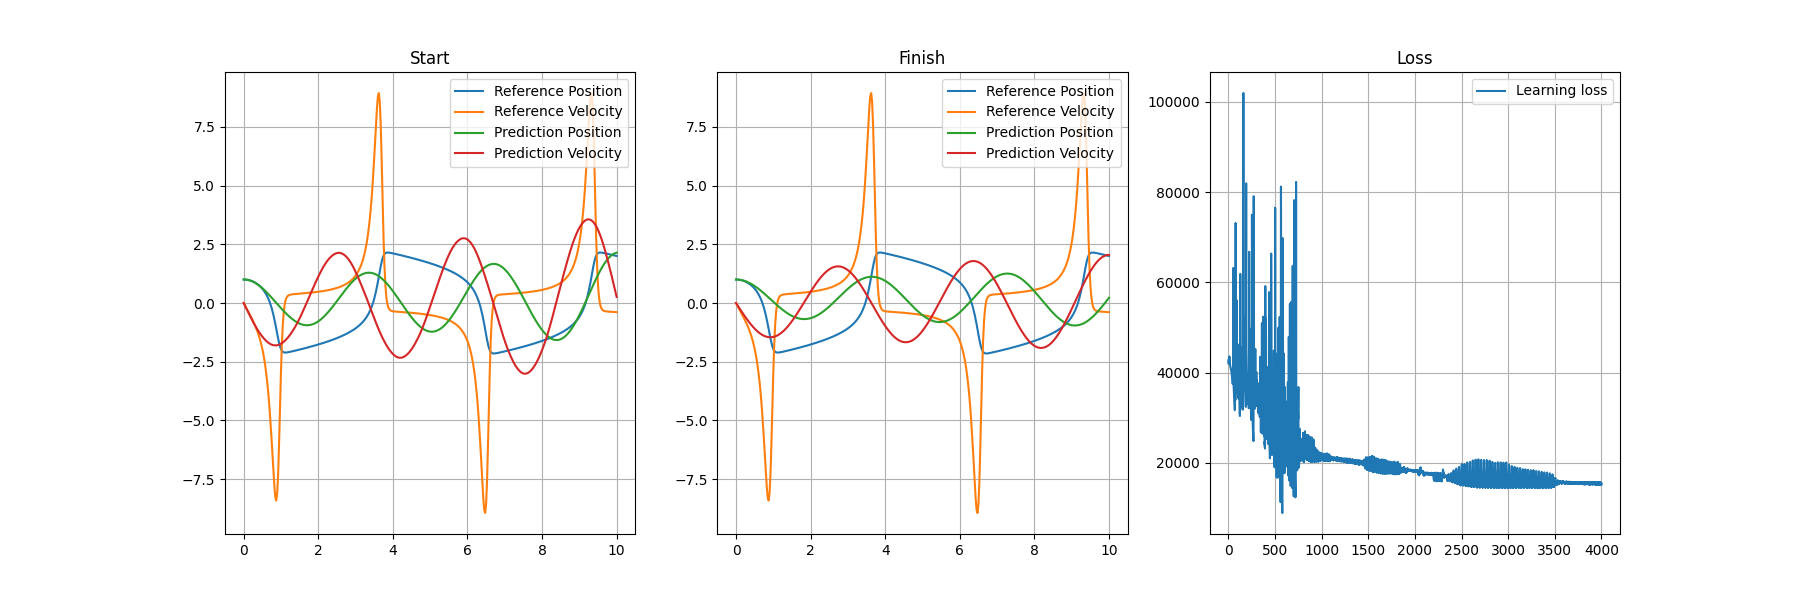
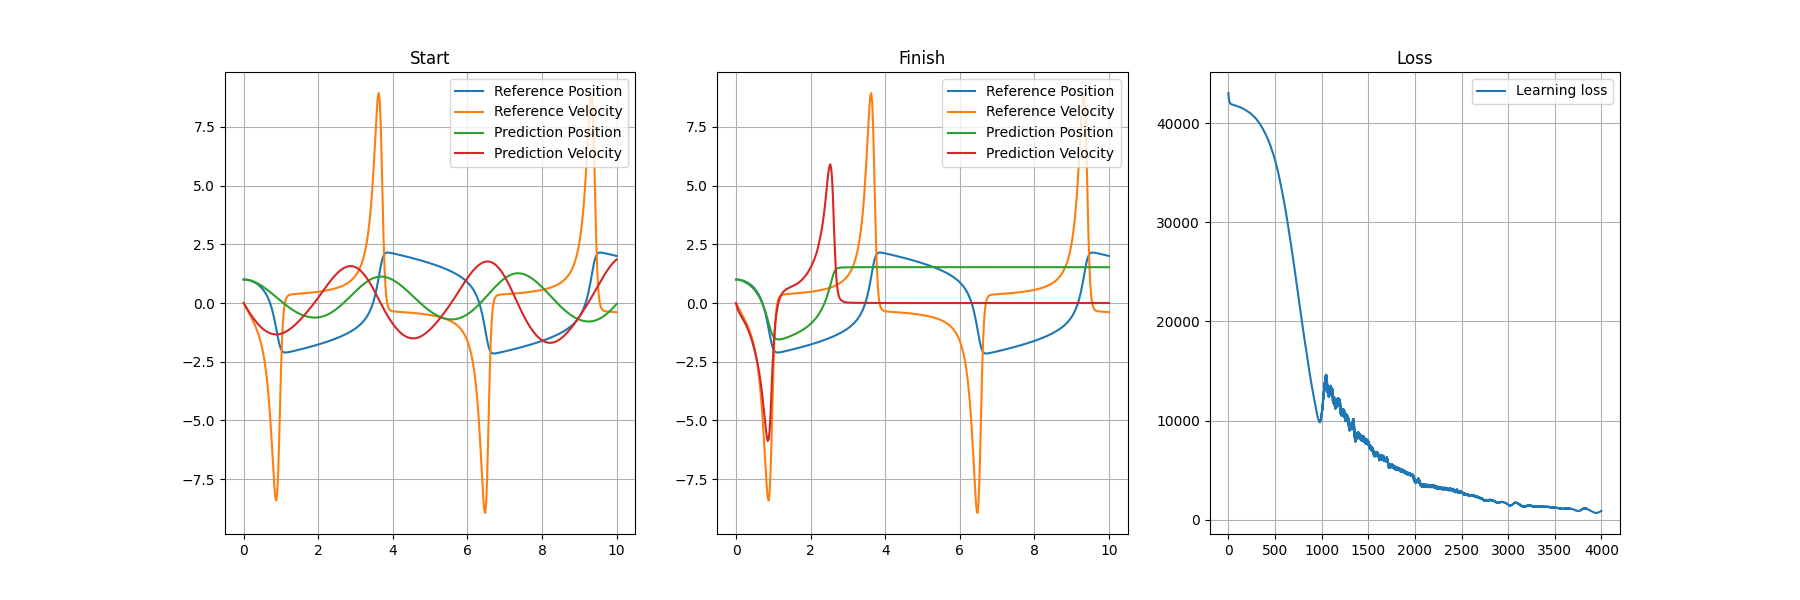
Checked runability

diff --git a/01_Informed_Simulators/01_direct_training/vdp_direct_training_NN.py b/01_Informed_Simulators/01_direct_training/vdp_direct_training_NN.py
@@ -99,7 +99,7 @@ if __name__ == '__main__':
     steps = 401
     t_span = np.linspace(t0, t1, steps)
     z0 = np.array([1.0, 0.0])
-    learning_rate = 0.0001
+    learning_rate = 0.000015
 
 
     #NN Parameters
@@ -127,7 +127,7 @@ if __name__ == '__main__':
     ax1.legend()
     ax1.grid()
     ax1.set_title('Start')
-    
+
 
 
     losses = []
@@ -148,7 +148,7 @@ if __name__ == '__main__':
     ax2.legend()
     ax2.grid()
     ax2.set_title('Finish')
-    
+
     ax3.plot(losses, label='Learning loss')
     ax3.legend()
     ax3.grid()
